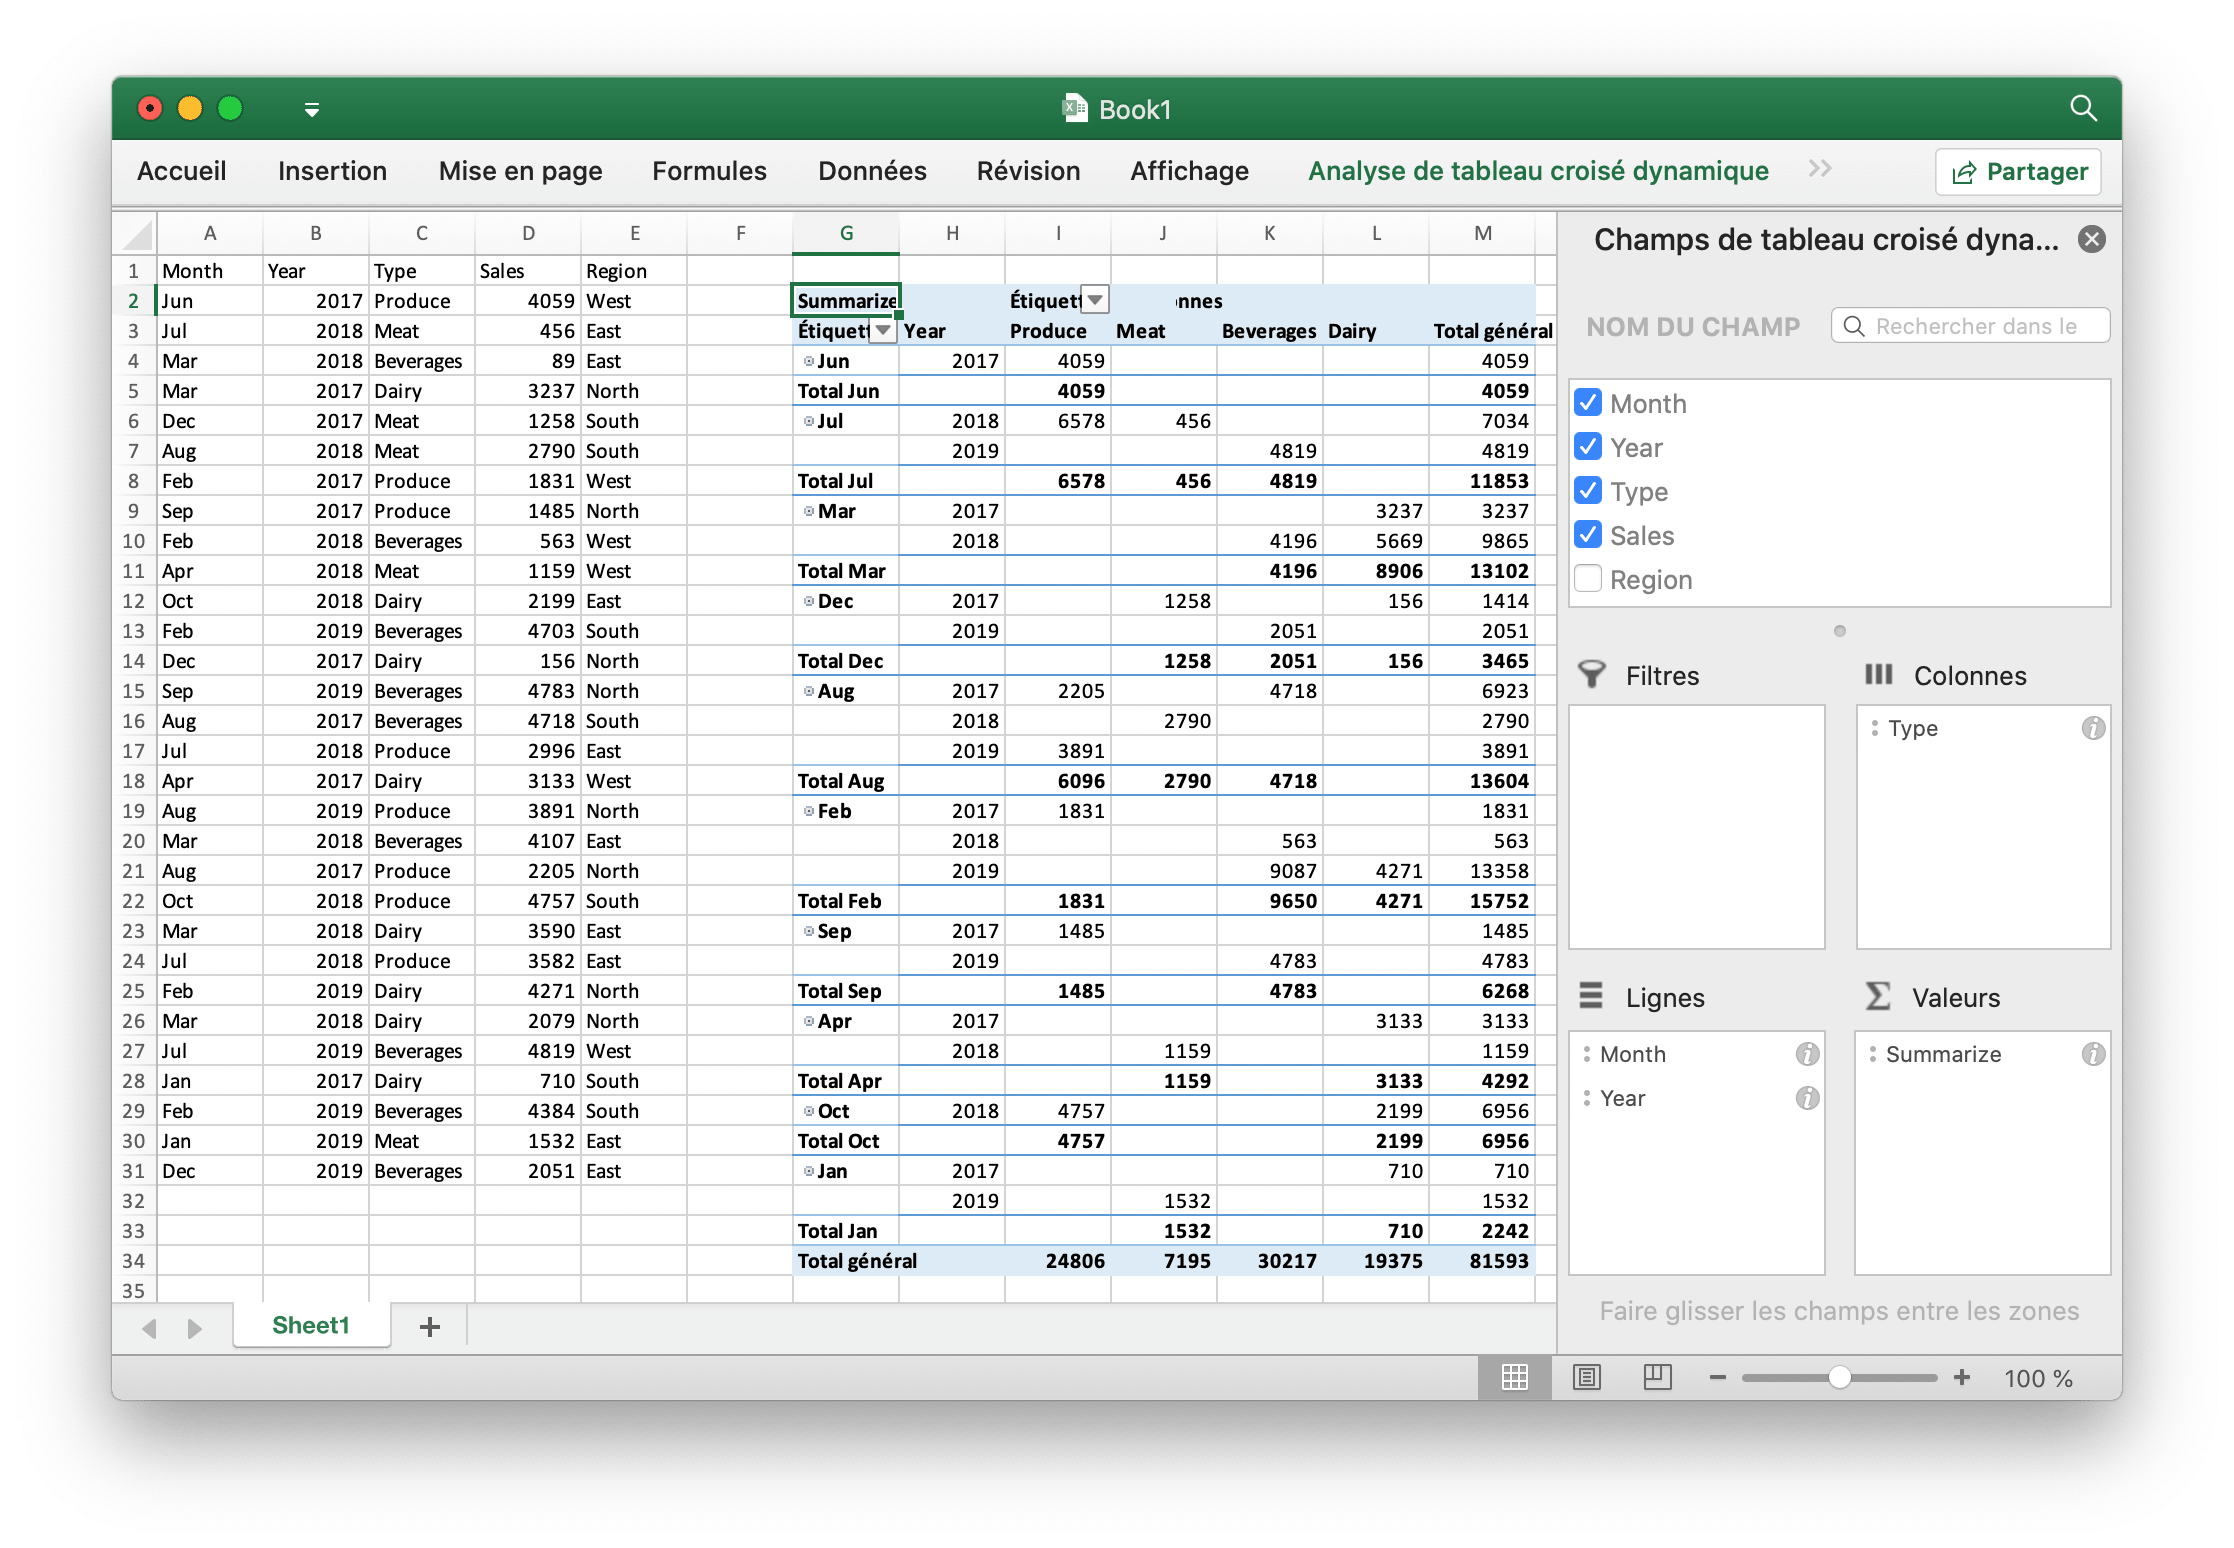
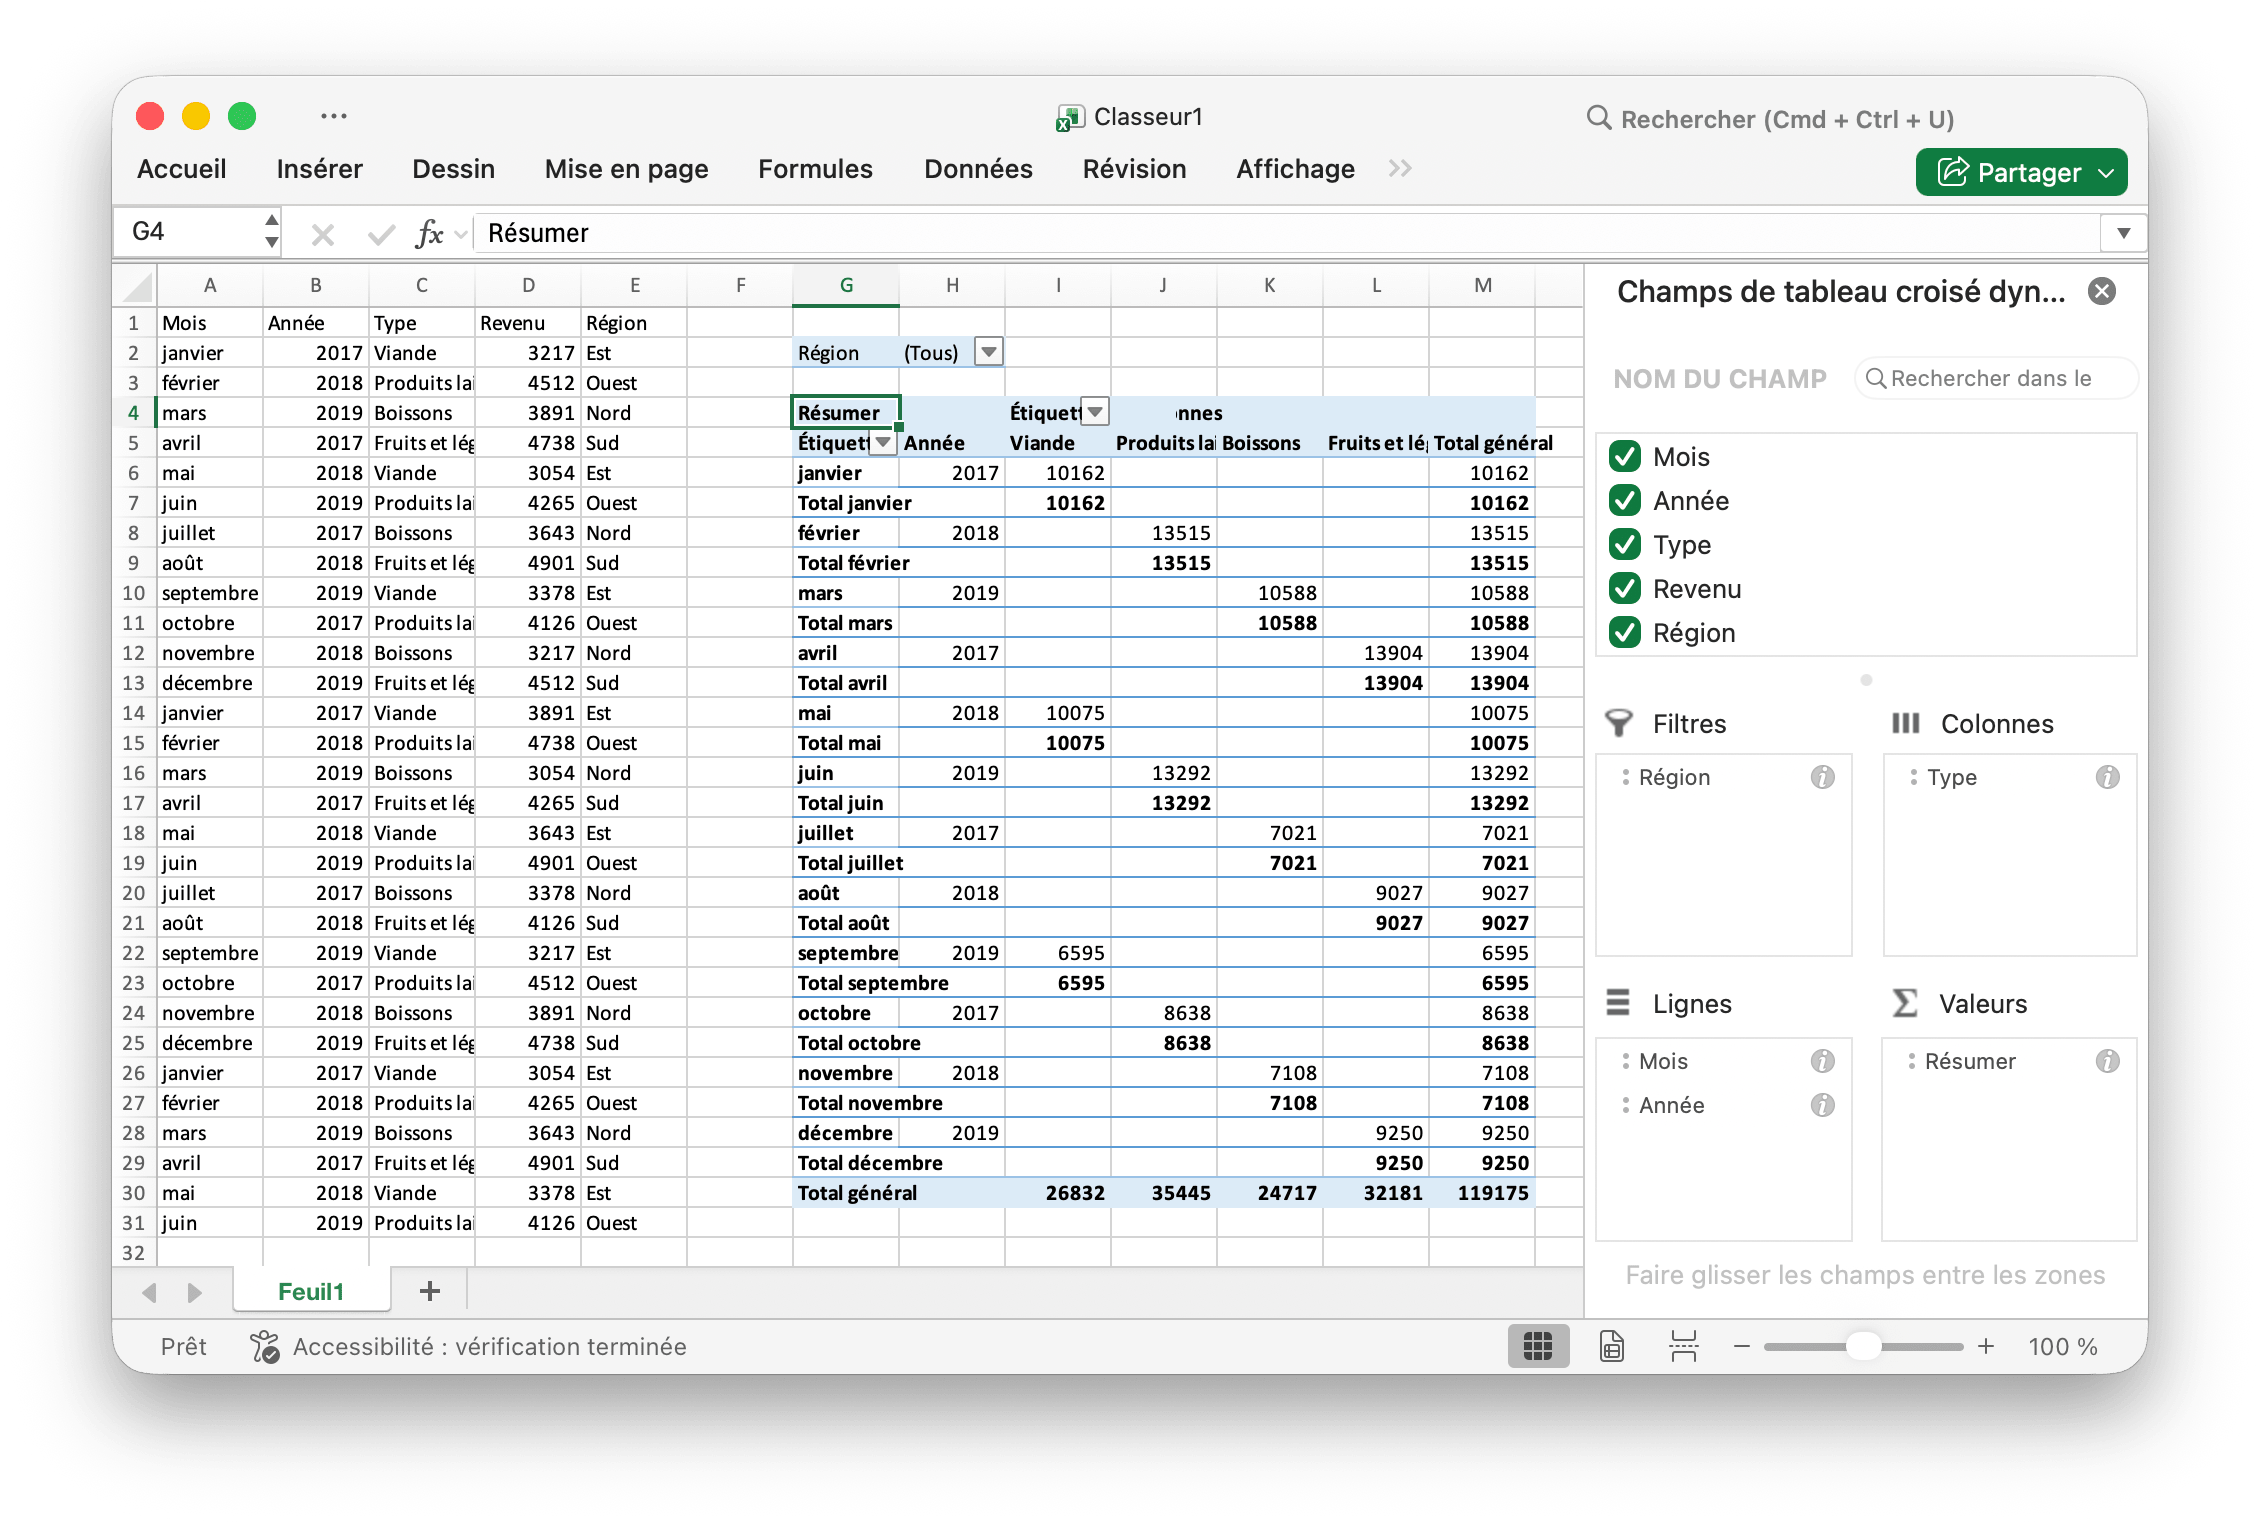
Update fr version docs for new SelectedItems fields in PivotTableOptions and SlicerOptions data type
- This related for xuri/excelize#2154, and xuri/excelize#2271

diff --git a/fr/pivot.md b/fr/pivot.md
@@ -55,6 +55,7 @@ type PivotTableField struct {
     Subtotal        string
     DefaultSubtotal bool
     NumFmt          int
+    SelectedItems   []string
 }
 ```
 
@@ -76,6 +77,8 @@ type PivotTableField struct {
 
 `Name` spécifie le nom du champ de données. Un maximum de `255` caractères est autorisé dans le nom du champ de données, les caractères en excès seront tronqués.
 
+`SelectedItems` spécifie les éléments sélectionnés par défaut dans un champ de tableau croisé dynamique. Les éléments sélectionnés doivent être des valeurs comprises dans la plage de cellules référencée par ce champ.
+
 ## Créer un tableau croisé dynamique {#AddPivotTable}
 
 ```go
@@ -84,16 +87,15 @@ func (f *File) AddPivotTable(opts *PivotTableOptions) error
 
 AddPivotTable fournit la méthode pour ajouter un tableau croisé dynamique en fonction des options de tableau croisé dynamique données.
 
-Par exemple, créez un tableau croisé dynamique dans la zone `Sheet1!$G$2:$M$34` avec la région `Sheet1!$A$1:$E$31` comme source de données, récapitulez par somme pour les ventes:
+Par exemple, créez un tableau croisé dynamique dans la zone `Feuil1!G4:M30` avec la région `Feuil1!A1:E31` comme source de données, récapitulez par somme pour les ventes:
 
-<p align="center"><img width="1117" src="./images/pivot_table_01.png" alt="créer un tableau croisé dynamique avec excelize en utilisant Go"></p>
+<p align="center"><img width="1130" src="./images/pivot_table_01.png" alt="créer un tableau croisé dynamique avec excelize en utilisant Go"></p>
 
 ```go
 package main
 
 import (
     "fmt"
-    "math/rand"
 
     "github.com/xuri/excelize/v2"
 )
@@ -105,34 +107,48 @@ func main() {
             fmt.Println(err)
         }
     }()
+    if err := f.SetSheetName("Sheet1", "Feuil1"); err != nil {
+        fmt.Println(err)
+        return
+    }
     // Créer des données dans une feuille
-    month := []string{"Jan", "Feb", "Mar", "Apr", "May",
-        "Jun", "Jul", "Aug", "Sep", "Oct", "Nov", "Dec"}
+    month := []string{"janvier", "février", "mars", "avril", "mai", "juin",
+        "juillet", "août", "septembre", "octobre", "novembre", "décembre"}
     year := []int{2017, 2018, 2019}
-    types := []string{"Meat", "Dairy", "Beverages", "Produce"}
-    region := []string{"East", "West", "North", "South"}
-    f.SetSheetRow("Sheet1", "A1", &[]string{"Month", "Year", "Type", "Sales", "Region"})
+    types := []string{"Viande", "Produits laitiers", "Boissons", "Fruits et légumes"}
+    revenue := []int{3217, 4512, 3891, 4738, 3054, 4265, 3643, 4901, 3378, 4126}
+    region := []string{"Est", "Ouest", "Nord", "Sud"}
+    if err := f.SetSheetRow(
+        "Feuil1", "A1", &[]string{"Mois", "Année", "Type", "Revenu", "Région"},
+    ); err != nil {
+        fmt.Println(err)
+        return
+    }
     for row := 2; row < 32; row++ {
-        f.SetCellValue("Sheet1", fmt.Sprintf("A%d", row), month[rand.Intn(12)])
-        f.SetCellValue("Sheet1", fmt.Sprintf("B%d", row), year[rand.Intn(3)])
-        f.SetCellValue("Sheet1", fmt.Sprintf("C%d", row), types[rand.Intn(4)])
-        f.SetCellValue("Sheet1", fmt.Sprintf("D%d", row), rand.Intn(5000))
-        f.SetCellValue("Sheet1", fmt.Sprintf("E%d", row), region[rand.Intn(4)])
+        f.SetCellValue("Feuil1", fmt.Sprintf("A%d", row), month[(row-2)%len(month)])
+        f.SetCellValue("Feuil1", fmt.Sprintf("B%d", row), year[(row-2)%len(year)])
+        f.SetCellValue("Feuil1", fmt.Sprintf("C%d", row), types[(row-2)%len(types)])
+        f.SetCellValue("Feuil1", fmt.Sprintf("D%d", row), revenue[(row-2)%len(revenue)])
+        f.SetCellValue("Feuil1", fmt.Sprintf("E%d", row), region[(row-2)%len(region)])
     }
     if err := f.AddPivotTable(&excelize.PivotTableOptions{
-        DataRange:       "Sheet1!A1:E31",
-        PivotTableRange: "Sheet1!G2:M34",
+        DataRange:       "Feuil1!A1:E31",
+        PivotTableRange: "Feuil1!G4:M30",
         Rows: []excelize.PivotTableField{
-            {Data: "Month", DefaultSubtotal: true}, {Data: "Year"}},
+            {Data: "Mois", DefaultSubtotal: true}, {Data: "Année"},
+        },
         Filter: []excelize.PivotTableField{
-            {Data: "Region"}},
+            {Data: "Région"},
+        },
         Columns: []excelize.PivotTableField{
-            {Data: "Type", DefaultSubtotal: true}},
+            {Data: "Type", DefaultSubtotal: true},
+        },
         Data: []excelize.PivotTableField{
-            {Data: "Sales", Name: "Summarize", Subtotal: "Sum"}},
+            {Data: "Revenu", Name: "Résumer", Subtotal: "Sum"},
+        },
         RowGrandTotals: true,
         ColGrandTotals: true,
-        ShowDrill:      true,
+        ShowDrill:      false,
         ShowRowHeaders: true,
         ShowColHeaders: true,
         ShowLastColumn: true,
@@ -140,7 +156,7 @@ func main() {
         fmt.Println(err)
         return
     }
-    if err := f.SaveAs("Book1.xlsx"); err != nil {
+    if err := f.SaveAs("Classeur1.xlsx"); err != nil {
         fmt.Println(err)
     }
 }

diff --git a/fr/data.md b/fr/data.md
@@ -80,24 +80,28 @@ DeleteDataValidation supprimer la validation des données par le nom de feuille 
 
 ```go
 type SlicerOptions struct {
-    Name          string
-    Table         string
-    Cell          string
-    Caption       string
-    Macro         string
-    Width         uint
-    Height        uint
-    DisplayHeader *bool
-    ItemDesc      bool
-    Format        GraphicOptions
+    Name            string
+    Cell            string
+    TableSheet      string
+    TableName       string
+    Caption         string
+    Macro           string
+    Width           uint
+    Height          uint
+    DisplayHeader   *bool
+    ItemDesc        bool
+    Format          GraphicOptions
+    SelectedItems   []string
 }
 ```
 
 `Name` spécifie le nom du slicer, doit être un nom de champ existant de la table ou du tableau croisé dynamique donné, ce paramètre est obligatoire.
 
-`Table` spécifie le nom du tableau ou du tableau croisé dynamique, ce paramètre est obligatoire.
-
 `Cell` spécifie la cellule supérieure gauche coordonne la position d'insertion du slicer, ce paramètre est obligatoire.
+
+`TableSheet` spécifie le nom de la feuille de calcul contenant le tableau ou le tableau croisé dynamique，ce paramètre est obligatoire.
+
+`TableName` spécifie le nom du tableau ou du tableau croisé dynamique，ce paramètre est obligatoire.
 
 `Caption` spécifie la légende du slicer, ce paramètre est facultatif.
 
@@ -112,6 +116,8 @@ type SlicerOptions struct {
 `ItemDesc` spécifie le tri des éléments décroissant (Z-A), ce paramètre est facultatif et le paramètre par défaut est `false` (représente un ordre croissant).
 
 `Format` spécifie le format du slicer, ce paramètre est facultatif.
+
+`SelectedItems` permet de spécifier les éléments sélectionnés par défaut dans un segment. Elle est actuellement prise en charge uniquement pour les segments des tableaux croisés dynamiques. Les éléments sélectionnés doivent appartenir à la plage d'éléments sélectionnés dans le tableau croisé dynamique. Si le tableau croisé dynamique est créé à l'aide de la fonction [`AddPivotTable`](pivot.md#AddPivotTable), la plage d'éléments sélectionnés du même champ doit également être spécifiée lors de la création du tableau croisé dynamique.
 
 ```go
 func (f *File) AddSlicer(sheet string, opts *SlicerOptions) error

diff --git a/fr/README.md b/fr/README.md
@@ -9,7 +9,7 @@ Excelize est une bibliothèque écrite en pure Go fournissant un ensemble de fon
 - go.dev: [pkg.go.dev/github.com/xuri/excelize/v2](https://pkg.go.dev/github.com/xuri/excelize/v2)
 - Licenses: [BSD 3-Clause](https://opensource.org/licenses/BSD-3-Clause)
 - Dernière version: [v2.10.1](https://github.com/xuri/excelize/releases/latest)
-- Heure de mise à jour du document: 11 Mars 2026
+- Heure de mise à jour du document: 28 Mars 2026
 
 ## Mission du projet
 

diff --git a/es/pivot.md b/es/pivot.md
@@ -111,7 +111,7 @@ func main() {
         fmt.Println(err)
         return
     }
-    // Erstellen Sie einige Daten in einem Arbeitsblatt
+    // Crea algunos datos en una hoja de trabajo
     month := []string{"enero", "febrero", "marzo", "abril", "Mayo", "junio",
         "julio", "agosto", "septiembre", "octubre", "noviembre", "diciembre"}
     year := []int{2017, 2018, 2019}

diff --git a/en/pivot.md b/en/pivot.md
@@ -109,7 +109,7 @@ func main() {
             fmt.Println(err)
         }
     }()
- Create some data in a sheet
+    // Create some data in a sheet
     month := []string{"Jan", "Feb", "Mar", "Apr", "May",
         "Jun", "Jul", "Aug", "Sep", "Oct", "Nov", "Dec"}
     year := []int{2017, 2018, 2019}
